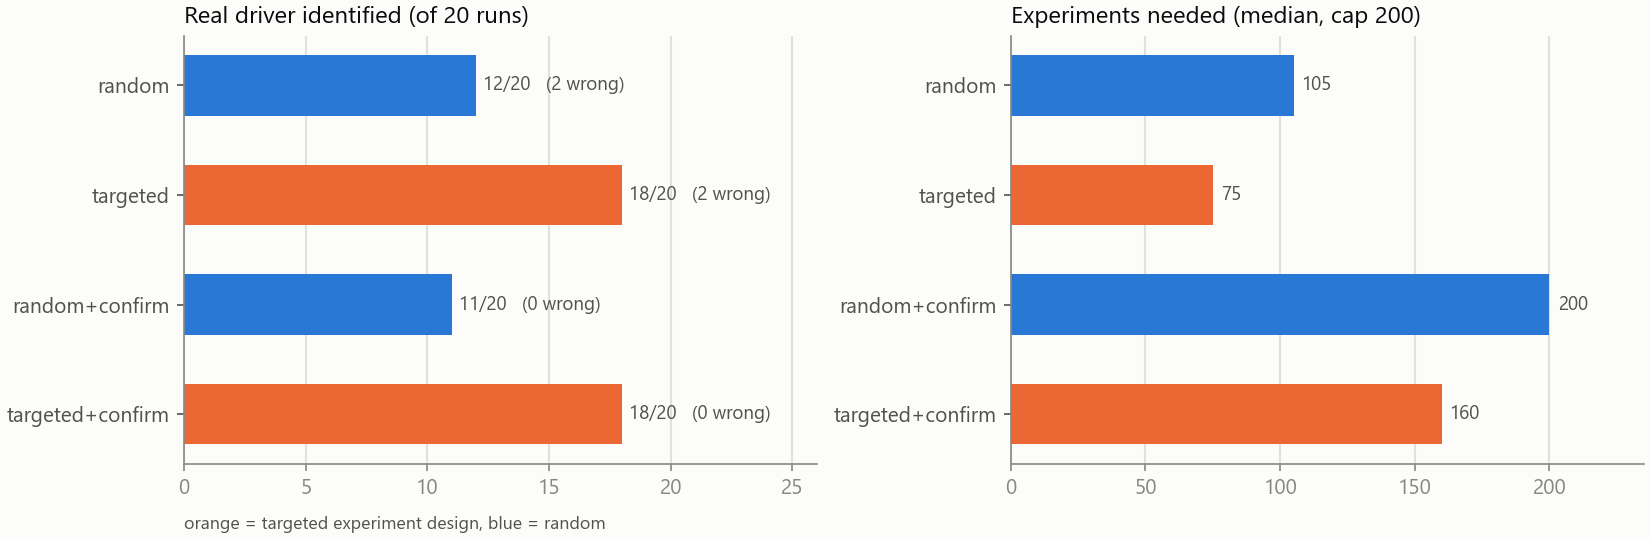
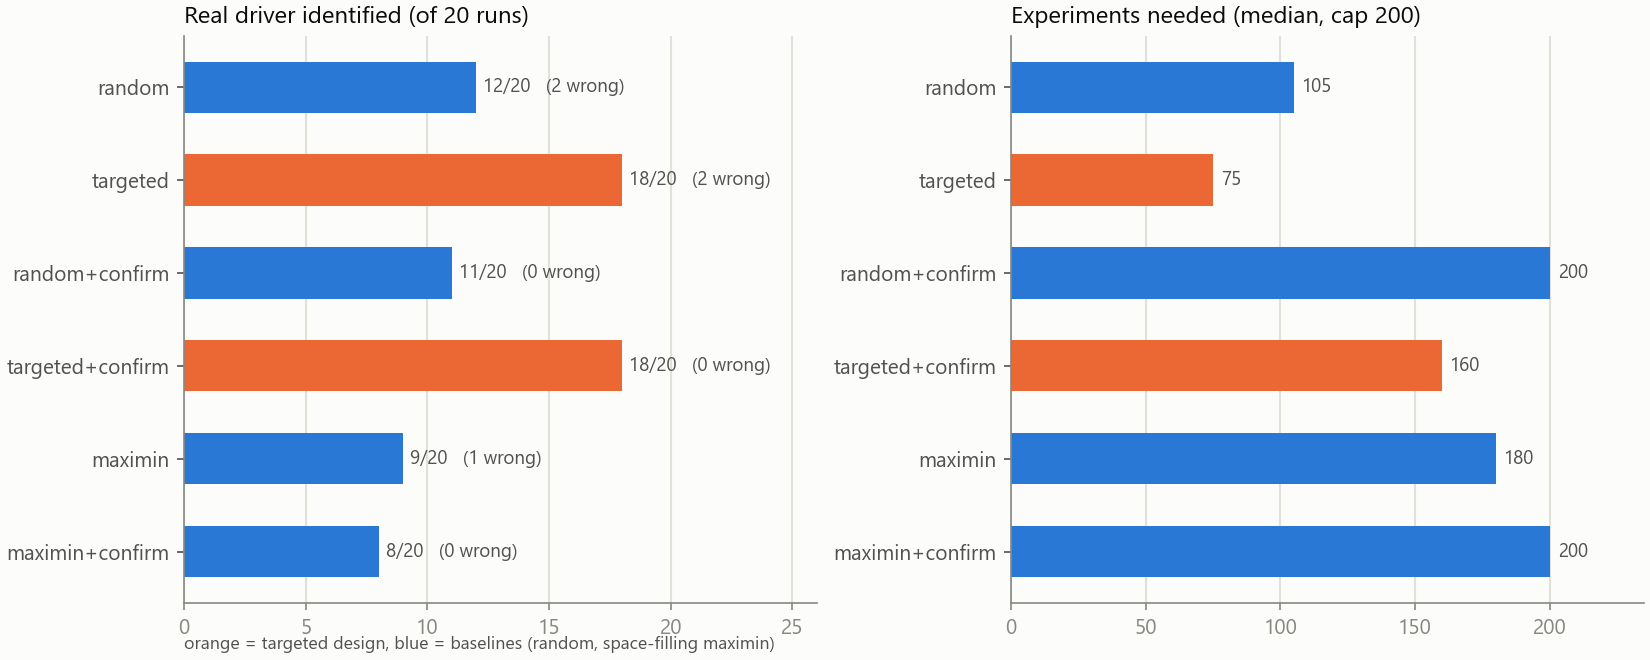
Add maximin baseline to missing-variable task: targeted design still wins (p = 0.002)
Space-filling design finds the real driver in 9/20 (8/20 with confirmation)
versus 18/20 for targeted design. README summary, scorecard and chart updated.

diff --git a/scripts/make_results.py b/scripts/make_results.py
@@ -79,11 +79,12 @@ def blind_chart(src="blind_spot_results.txt", out="results_blind_spot.png"):
 # ------------------------------------------------------------- missing-variable chart
 def missing_chart():
     rows = []
-    for line in read("missing_variable_results.txt").splitlines():
+    extra = read("missing_variable_maximin_results.txt") if os.path.exists(os.path.join(RES, "missing_variable_maximin_results.txt")) else ""
+    for line in (read("missing_variable_results.txt") + "\n" + extra).splitlines():
         m = re.match(r"(\S+)\s+correct (\d+)/(\d+), wrong channel (\d+); experiments: median (\d+)", line)
         if m:
             rows.append((m.group(1), int(m.group(2)), int(m.group(3)), int(m.group(4)), int(m.group(5))))
-    fig, axes = plt.subplots(1, 2, figsize=(11, 3.6), constrained_layout=True)
+    fig, axes = plt.subplots(1, 2, figsize=(11, 4.4), constrained_layout=True)
     labels = [r[0] for r in rows][::-1]
     ys = range(len(rows))
     cols = [ORANGE if "targeted" in r[0] else BLUE for r in rows][::-1]
@@ -97,7 +98,7 @@ def missing_chart():
     axes[1].set_xlim(0, 235); axes[1].set_title("Experiments needed (median, cap 200)", loc="left", fontsize=11.5)
     for ax in axes:
         ax.set_yticks(list(ys)); ax.set_yticklabels(labels); ax.xaxis.grid(True, color=GRID, lw=1); ax.set_axisbelow(True)
-    axes[0].text(0, -1.05, "orange = targeted experiment design, blue = random", fontsize=8.5, color=INK2,
+    axes[0].text(0, -1.05, "orange = targeted design, blue = baselines (random, space-filling maximin)", fontsize=8.5, color=INK2,
                  transform=axes[0].get_yaxis_transform())
     fig.savefig(os.path.join(OUT, "results_missing_variable.png"), dpi=150)
     plt.close(fig)

diff --git a/run_missing.py b/run_missing.py
@@ -70,6 +70,13 @@ def trial(strategy, seed, confirm=False):
             continue                                   # rejected: keep exploring
         if strategy == "random":
             nxt = rng.uniform(0, 1, (BATCH, 3))
+        elif strategy == "maximin":                      # space-filling design: farthest from everything so far
+            cand = rng.uniform(0, 1, (800, 3))
+            chosen, pts = [], np.array(X)
+            for _ in range(BATCH):
+                d = np.min(np.linalg.norm(cand[:, None] - pts[None], axis=2), axis=1)
+                k = int(np.argmax(d)); chosen.append(cand[k]); pts = np.vstack([pts, cand[k]])
+            nxt = np.array(chosen)
         else:
             cand = rng.uniform(0, 1, (800, 3))
             m, _ = interaction_model(np.array(X), np.array(C), np.array(y))
@@ -84,7 +91,8 @@ def trial(strategy, seed, confirm=False):
 
 if __name__ == "__main__":
     n = int(sys.argv[1]) if len(sys.argv) > 1 else 20
-    for strat, conf in [("random", False), ("targeted", False), ("random", True), ("targeted", True)]:
+    runs = [("maximin", False), ("maximin", True)] if "--maximin" in sys.argv else [("random", False), ("targeted", False), ("random", True), ("targeted", True)]
+    for strat, conf in runs:
         R = [trial(strat, i, conf) for i in range(n)]
         cost = np.array([r[0] for r in R])
         ok = np.array([r[2] and r[1] == "ambient_sensor" for r in R])

diff --git a/README.md b/README.md
@@ -28,9 +28,9 @@ Logistic-rule balanced accuracy, 20 seeds, mean ± 95% CI. "Boundary" is my refe
 | `ml_synthetic` (planted gap) | 0.864 ± 0.011 / 0.788 ± 0.050 | 0.856 / 0.692 | 0.872 ± 0.010 / 0.807 ± 0.075 | **No advantage** (maximin is as good) |
 | **`kdd_real`** (real data) | 0.783 ± 0.017 / 0.686 ± 0.026 | 0.865 / 0.709 | 0.854 ± 0.009 / **0.774 ± 0.023** (no radius); 0.845 ± 0.014 / 0.681 ± 0.026 (same 0.2 radius as boundary) | **Worse**: uniform and maximin both beat it |
 
-Missing-variable discovery (simulated, planted driver): targeted design beats random (18/20 vs 11/20, p = 0.031 with confirmation); no space-filling baseline has been run for that task yet.
+**Missing-variable discovery** (simulated, planted driver): targeted design beats random (18/20 vs 11/20, p = 0.031 with confirmation) **and the space-filling baseline** (18/20 vs 8/20 with confirmation, Fisher p = 0.002). This is the most robust result in the repo, though the driver is one I planted.
 
-**Honest summary:** boundary-targeting helps on the two grid tasks I built, and the margin shrinks once the baseline is a proper space-filling design instead of uniform sampling. On the synthetic learned detector it adds nothing, and on the one real dataset it loses. This is why the repo is now framed as a benchmark and audit toolkit: the fair comparison is the contribution, and a method that wins it on real data has not been found yet. Raw output: [results/benchmark_maximin_results.txt](results/benchmark_maximin_results.txt).
+**Honest summary:** for blind-spot mapping, boundary-targeting helps on the two grid tasks I built, and the margin shrinks once the baseline is a proper space-filling design instead of uniform sampling. On the synthetic learned detector it adds nothing, and on the one real dataset it loses. The one place targeted design wins clearly against every baseline is **missing-variable discovery**. This is why the repo is now framed as a benchmark and audit toolkit: the fair comparison is the contribution, and a method that wins it on real data has not been found yet. Raw output: [results/benchmark_maximin_results.txt](results/benchmark_maximin_results.txt).
 
 ### Use the benchmark
 
@@ -130,8 +130,10 @@ Left: random experiment conditions. Right: conditions chosen where the fitted mo
 | targeted | 18 / 20 | 2 | **75** |
 | random + confirm | 11 / 20 | 0 | 200 (cap) |
 | **targeted + confirm** | **18 / 20** | **0** | 160 |
+| maximin (space-filling) | 9 / 20 | 1 | 180 |
+| maximin + confirm | 8 / 20 | 0 | 200 (cap) |
 
-- Targeted vs random (with confirmation): **18/20 vs 11/20, Fisher exact p = 0.031.** Without confirmation the gap is 18/20 vs 12/20, p = 0.065, borderline.
+- Targeted vs random (with confirmation): **18/20 vs 11/20, Fisher exact p = 0.031.** Against the stronger space-filling (maximin) baseline the gap is larger: **18/20 vs 8/20, p = 0.002** ([saved output](results/missing_variable_maximin_results.txt)). Without confirmation the gap is 18/20 vs 12/20, p = 0.065, borderline.
 - The **confirmation step** (30 fresh high-load experiments, test only the flagged channel, out of sample) removed both false identifications, but 0 vs 2 out of 20 is not statistically significant (p = 0.49), and it roughly doubles the cost.
 - The hidden driver is one I planted, so this shows the method works on a planted missing variable. It does not show it can find an unknown one.
 
